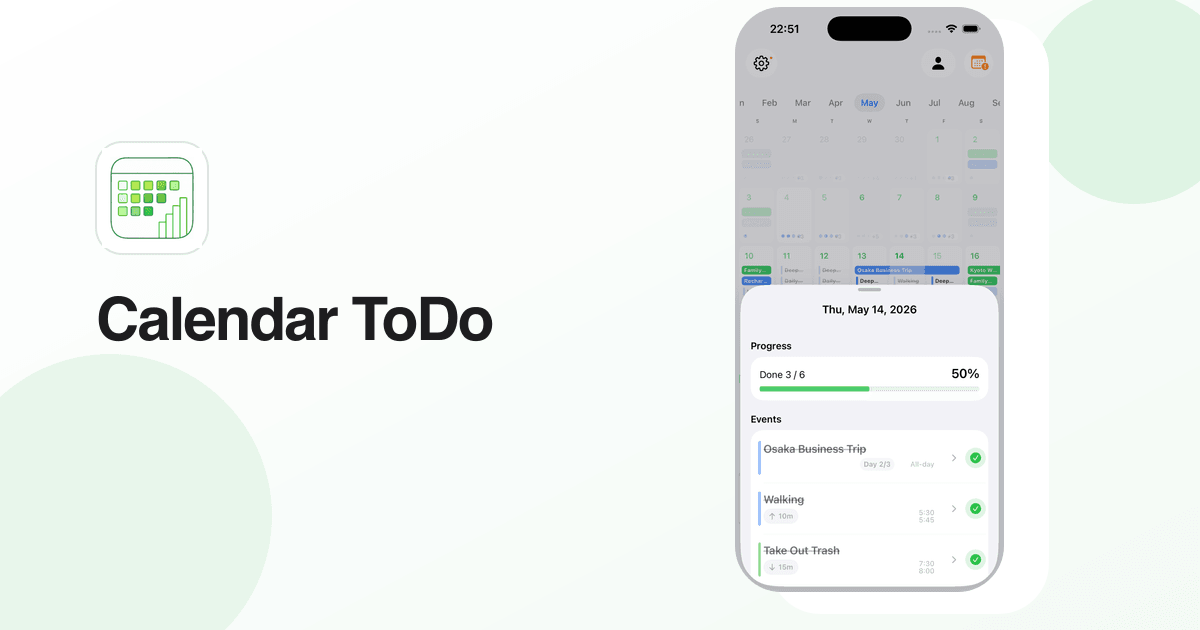
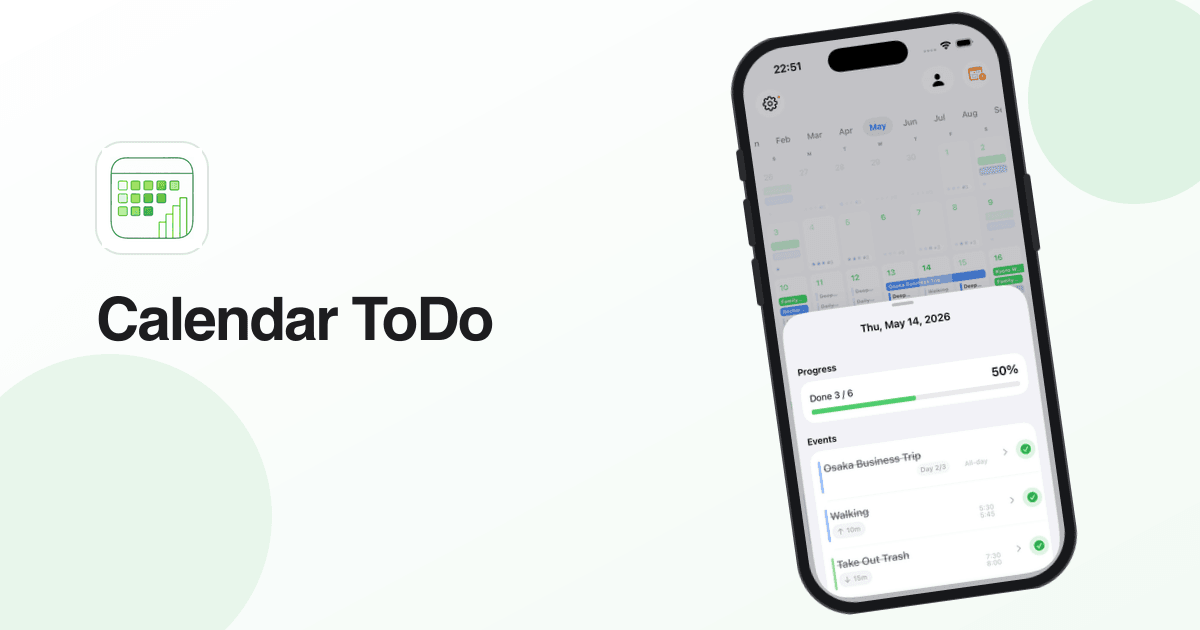
feat: OG画像にiPhoneフレームを追加

Changed region(s): [[0.5858, 0.0, 0.8942, 0.9952], [0.7092, 0.1508, 0.74, 0.2111]]

diff --git a/src/config/site.ts b/src/config/site.ts
@@ -9,8 +9,8 @@ export const LOCALE_PATHS = {
 } as const satisfies Record<Locale, string>;
 
 export const OG_IMAGE_PATHS = {
-  ja: '/og/ja.png?v=3',
-  en: '/og/en.png?v=3',
+  ja: '/og/ja.png?v=4',
+  en: '/og/en.png?v=4',
 } as const satisfies Record<Locale, string>;
 
 export const APP_STORE_URLS = {
